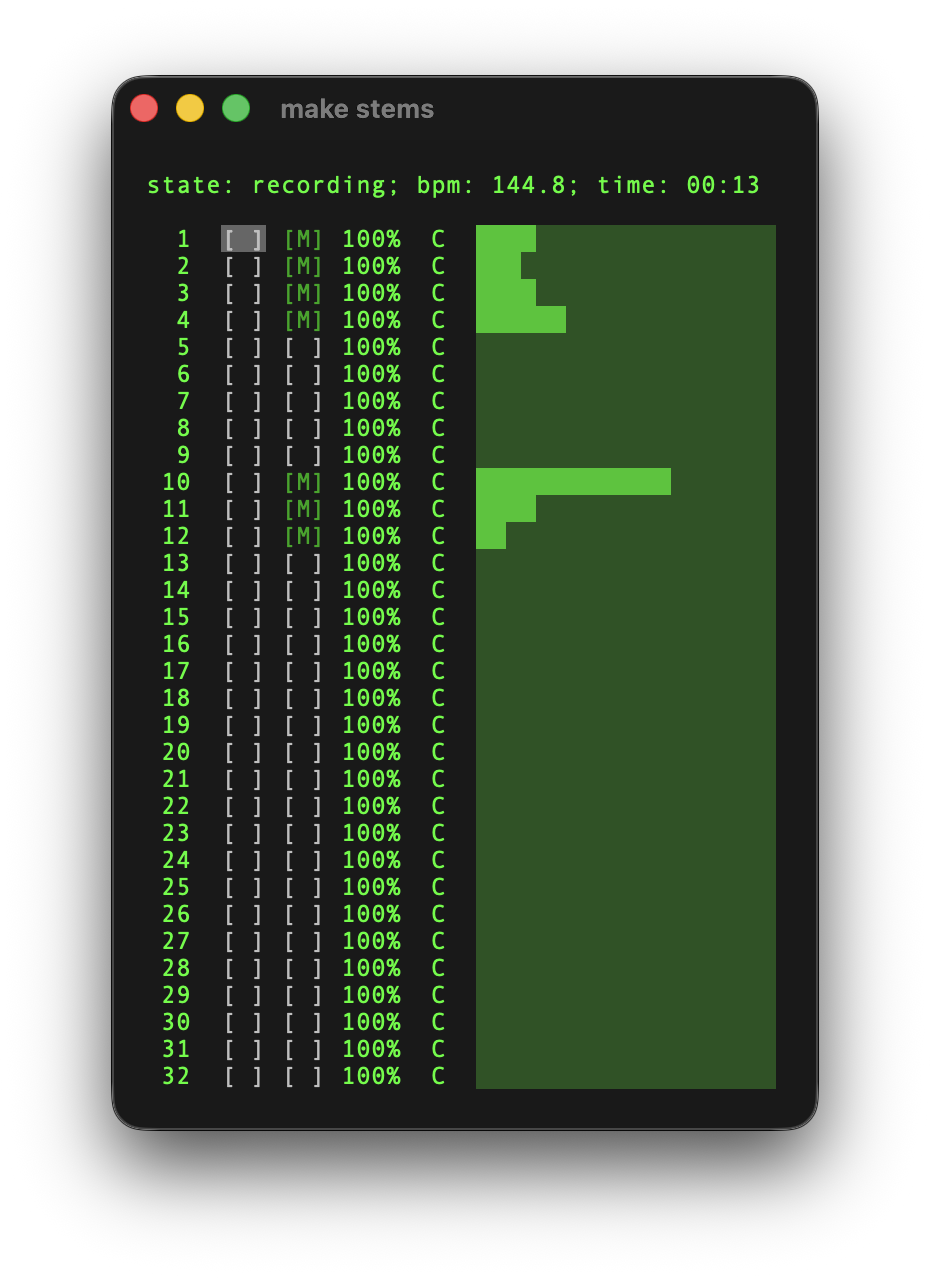
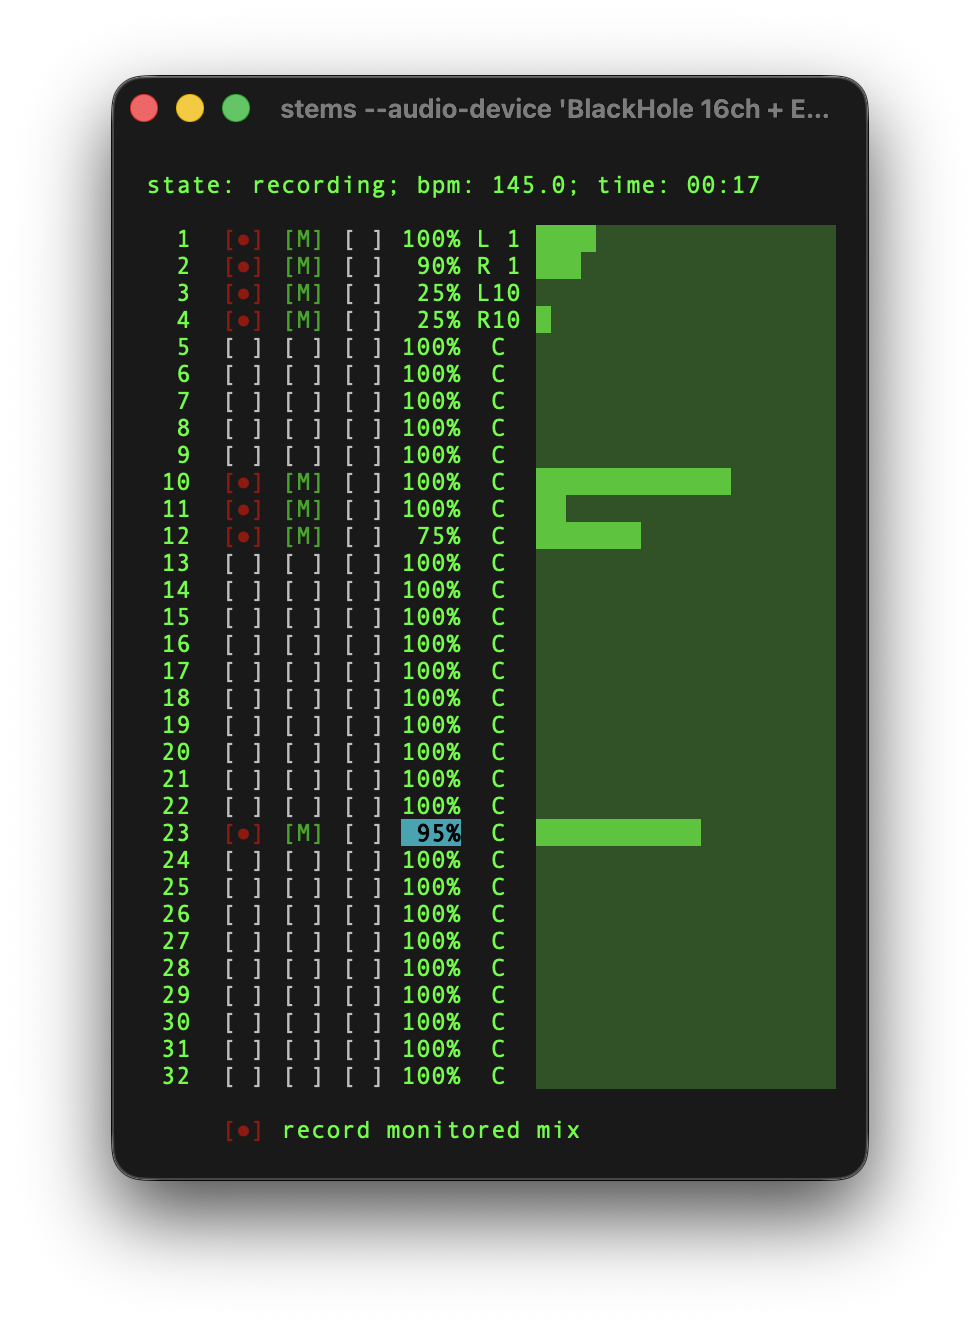
Update docs

Changed region(s): [[0.0935, 0.0305, 0.9043, 0.9155]]

diff --git a/docs/architecture.md b/docs/architecture.md
@@ -6,7 +6,8 @@ Stems is a multi-track audio recorder that simultaneously records audio to disk
 and provides real-time monitoring. It supports multi-channel aggregate devices
 for routing audio from virtual loopback devices (like
 [BlackHole](https://github.com/ExistentialAudio/BlackHole)) to physical audio
-interfaces.
+interfaces. In addition to recording individual tracks, stems can also record
+the monitored stereo mix to a single file.
 
 This doc uses BlackHole 16ch and
 [ES-9](https://www.expert-sleepers.co.uk/es9.html) as an example, but the
@@ -27,23 +28,33 @@ graph TB
 
     MonitorBuffer["Monitor Ring Buffer<br/>━━━━━━━━━━━━━━━━<br/>Type: f32 (stereo)<br/>Size: 50ms buffer<br/>Contains: mixed audio"]
 
-    %% File Writer
+    MixRecordingBuffer["Mix Recording Ring Buffer<br/>━━━━━━━━━━━━━━━━<br/>Type: f32 (stereo)<br/>Size: SAMPLE_RATE × 5s × 2<br/>Contains: stereo mix samples"]
+
+    %% File Writers
     FileWriter["FileWriter Thread<br/>━━━━━━━━━━━━━━━━<br/>• Read from recording buffer<br/>• De-multiplex by track_id<br/>• Write per-track WAV files"]
+
+    MixWriter["MixWriter Thread<br/>━━━━━━━━━━━━━━━━<br/>• Read from mix recording buffer<br/>• Write stereo WAV file"]
 
     %% Output Callback
     OutputCallback["Output Callback<br/>(Real-time Audio Thread)<br/>━━━━━━━━━━━━━━━━<br/>• Read from monitor buffer<br/>• Route to specified channels<br/>• Fill other channels with silence"]
 
     %% Disk
-    Disk["Disk Storage<br/>━━━━━━━━━━━━━━━━<br/>Per-track WAV files<br/>Format: 32-bit Float WAV<br/>Sample Rate: 48000 Hz"]
+    TrackFiles["Track Files<br/>━━━━━━━━━━━━━━━━<br/>Per-track mono WAV files<br/>Format: 32-bit Float WAV<br/>Sample Rate: 48000 Hz"]
+
+    MixFile["Mix File<br/>━━━━━━━━━━━━━━━━<br/>mix-timestamp.wav<br/>Format: Stereo 32-bit Float WAV<br/>Sample Rate: 48000 Hz"]
 
     %% Connections
     AggregateDevice -->|"cpal input stream<br/>(32ch f32 samples)"| InputCallback
 
     InputCallback -->|"if recording &amp; armed"| RecordingBuffer
     InputCallback -->|"if monitoring enabled"| MonitorBuffer
+    InputCallback -->|"if recording &amp; mix armed"| MixRecordingBuffer
 
     RecordingBuffer -->|"non-blocking read"| FileWriter
-    FileWriter -->|"write"| Disk
+    FileWriter -->|"write"| TrackFiles
+
+    MixRecordingBuffer -->|"non-blocking read"| MixWriter
+    MixWriter -->|"write"| MixFile
 
     MonitorBuffer -->|"non-blocking read"| OutputCallback
     OutputCallback -->|"cpal output stream<br/>(32ch f32, routed)"| AggregateDevice
@@ -56,8 +67,8 @@ graph TB
 
     class AggregateDevice device
     class InputCallback,OutputCallback callback
-    class RecordingBuffer,MonitorBuffer buffer
-    class FileWriter,Disk storage
+    class RecordingBuffer,MonitorBuffer,MixRecordingBuffer buffer
+    class FileWriter,MixWriter,TrackFiles,MixFile storage
 ```
 
 ## Key Components
@@ -90,11 +101,12 @@ Stems works best with macOS **Aggregate Devices** that combine:
 **Processing per audio frame:**
 1. De-interleave input channels
 2. For each track:
-   - Apply level/gain control
+   - Apply level control
    - Update peak meter
    - If recording AND track armed → push to recording buffer
-   - If monitoring enabled → mix into monitor output
+   - If monitoring enabled → mix into monitor output (with level and panning applied)
 3. Push stereo mix to monitor buffer
+4. If recording AND mix armed → push stereo mix to mix recording buffer
 
 ### 3. Recording Ring Buffer
 
@@ -110,7 +122,15 @@ Stems works best with macOS **Aggregate Devices** that combine:
 - **Lock-free:** Non-blocking push/pop
 - **Contents:** Stereo mix of monitored tracks
 
-### 5. FileWriter Thread
+### 5. Mix Recording Ring Buffer
+
+- **Type:** `rtrb::RingBuffer<f32>`
+- **Size:** `SAMPLE_RATE × 5 seconds × 2 channels`
+- **Lock-free:** Non-blocking push/pop
+- **Contents:** Interleaved stereo mix samples with level and panning applied (same as monitor output)
+- **Purpose:** Records the monitored mix to a single stereo file
+
+### 6. FileWriter Thread
 
 - Runs in **separate non-realtime thread**
 - Reads from recording ring buffer
@@ -118,7 +138,15 @@ Stems works best with macOS **Aggregate Devices** that combine:
 - Writes per-track WAV files to disk
 - **Format:** 32-bit Float WAV @ input sample rate
 
-### 6. Monitor Output with Channel Routing
+### 7. MixWriter Thread
+
+- Runs in **separate non-realtime thread**
+- Reads from mix recording ring buffer
+- Writes stereo mix to single WAV file
+- **Format:** Stereo 32-bit Float WAV @ 48000 Hz
+- **Filename:** `mix-{timestamp}.wav`
+
+### 8. Monitor Output with Channel Routing
 
 The output callback routes the stereo monitor mix to specific output channels:
 
@@ -229,14 +257,17 @@ For aggregate devices, the **Clock Source** device (typically the physical inter
 - Audio engine: `src/audio/engine.rs`
 - Audio callbacks: `src/audio/callback.rs`
 - Device configuration: `src/audio/device.rs`
-- File writer: `src/audio/writer.rs`
+- Track file writer: `src/audio/writer.rs`
+- Mix file writer: `src/audio/mix_writer.rs`
 - CLI argument parsing: `src/main.rs`
 - Track management: `src/audio/track.rs`
 
 ## Notes
 
 - **Recording to disk** uses large buffer (10 seconds) and is not timing-critical
+- **Mix recording** uses 5-second buffer and records the same stereo mix sent to monitor output
 - **Monitor output** is real-time with small buffer (50ms) - sensitive to timing
 - The `--audio-device` flag applies to **both input and output** for single clock domain
 - Aggregate devices must have sub-devices enabled in Audio MIDI Setup
 - Virtual devices (like BlackHole) have no physical clock and sync to the Clock Source
+- Mix recording is optional and controlled via the UI checkbox below the track list

diff --git a/README.md b/README.md
@@ -5,31 +5,37 @@ Terminal-based multi-track audio recorder with MIDI clock sync.
 ## Features
 
 - **Multi-track recording** - One track per input channel (supports 32+ channels)
+- **Mix recording** - Record the monitored stereo mix to a single file
 - **MIDI clock sync** - Recording starts on first clock pulse after MIDI Start
 - **Real-time monitoring** - Low-latency monitoring with configurable routing
-- **Aggregate device support** - Route audio from virtual devices (like BlackHole) to physical interfaces
+- **Aggregate device support** - Route audio from virtual devices to physical interfaces
 - **Lock-free audio** - Real-time safe audio callbacks (atomics + ring buffers, no mutexes)
-- **Per-track control** - Individual arm/monitor/level/pan for each track
+- **Per-track control** - Individual arm/monitor/solo/level/pan for each track
 
-## Quick Start
-
-List available devices:
-```sh
-cargo run --release -- --list-devices
-```
-
-Basic usage:
-```sh
-# Single audio device
-cargo run --release -- --audio-device "ES-9" --midi-device mc-source-b
-
-# Aggregate device with monitor routing
-cargo run --release -- --audio-device "BlackHole + ES-9" \
-                       --monitor-channels 17-18 \
-                       --midi-device mc-source-b
-```
+**Note:** stems is a recorder only. It does not provide playback or arrangement
+features. Import the recorded WAV files into your DAW or audio editor for mixing
+and arrangement.
 
 ## Usage
+
+**Installation:** There's no binary distribution so you must compile it. Use
+`make build` or `make install`.
+
+```sh
+# Command help
+stems --help
+
+# List available devices
+stems --list
+
+# Single audio device
+stems --audio-device ES-9 --midi-device mc-source-b
+
+# Aggregate device with monitor routing
+stems --audio-device "BlackHole + ES-9" \
+      --monitor-channels 17-18 \
+      --midi-device mc-source-b
+```
 
 ### Command Line Flags
 
@@ -41,33 +47,6 @@ cargo run --release -- --audio-device "BlackHole + ES-9" \
 - `--midi-device <name>` - MIDI device for transport control
 - `--list-devices` - Show all available audio and MIDI devices
 
-### Aggregate Device Setup
-
-To record from software applications while monitoring through a physical interface:
-
-1. **Create aggregate device** in Audio MIDI Setup (macOS):
-   - Applications → Utilities → Audio MIDI Setup
-   - Click **+** → Create Aggregate Device
-   - Check both devices (e.g., BlackHole 16ch + ES-9)
-   - Set physical interface as **Clock Source**
-   - Name it (e.g., "BlackHole + ES-9")
-
-2. **Configure source application** (e.g., synthesizer):
-   - Set output device to BlackHole
-
-3. **Run stems** with aggregate device:
-   ```sh
-   cargo run --release -- --audio-device "BlackHole + ES-9" \
-                          --monitor-channels 17-18 \
-                          --midi-device mc-source-b
-   ```
-
-**Channel mapping:** For an aggregate with BlackHole (16ch) + ES-9 (16ch):
-- Channels 1-16: BlackHole inputs/outputs
-- Channels 17-32: ES-9 inputs/outputs
-
-Use `--monitor-channels 17-18` to hear audio through ES-9 outputs.
-
 ## Interface
 
 ![screenshot](docs/screenshot.png)
@@ -75,15 +54,17 @@ Use `--monitor-channels 17-18` to hear audio through ES-9 outputs.
 ### Commands
 
 ```
-j/k, ↑/↓  = Navigate tracks
+j/k, ↑/↓  = Navigate tracks (including mix recording row)
 
-h/l, ←/→  = Navigate columns (Arm/Monitor/Level/Pan)
+h/l, ←/→  = Navigate columns (Arm/Monitor/Solo/Level/Pan)
 
 Space     = Toggle arm/monitor or edit level/pan
 
 R         = Toggle arm for all tracks
 
 M         = Toggle monitoring for all tracks
+
+g/G       = Jump to first track / mix recording row
 
 ?         = Toggle help
 
@@ -92,14 +73,17 @@ q, ctrl+c = quit
 
 ## Recording Output
 
+### Individual Track Files
 - **Format:** 32-bit float WAV, mono per track
 - **Filename:** `{track}-{timestamp}.wav` (e.g., `01-20240115-143022.wav`)
 - **Sample rate:** Matches input device sample rate
 - **Location:** Current working directory
 
-**Note:** stems is a recorder only. It does not provide playback or arrangement
-features. Import the recorded WAV files into your DAW or audio editor for mixing
-and arrangement.
+### Mix File
+- **Format:** 32-bit float WAV, stereo
+- **Filename:** `mix-{timestamp}.wav`
+- **Content:** Recorded stereo mix of all monitored tracks with level and panning applied
+- **Arming:** Toggle the mix recording checkbox at the bottom of the track list
 
 ## Architecture
 
@@ -115,5 +99,4 @@ For detailed architecture information, see [docs/architecture.md](docs/architect
 - One track is created for each input channel of the selected device
 - Monitoring mixes all monitored tracks into stereo and routes to specified output channels
 - MIDI clock-based recording waits for first clock pulse after MIDI Start message
-- Supports devices with 32+ channels (e.g., aggregate devices)
 - Sample rate automatically selected at 48000 Hz if supported by device
